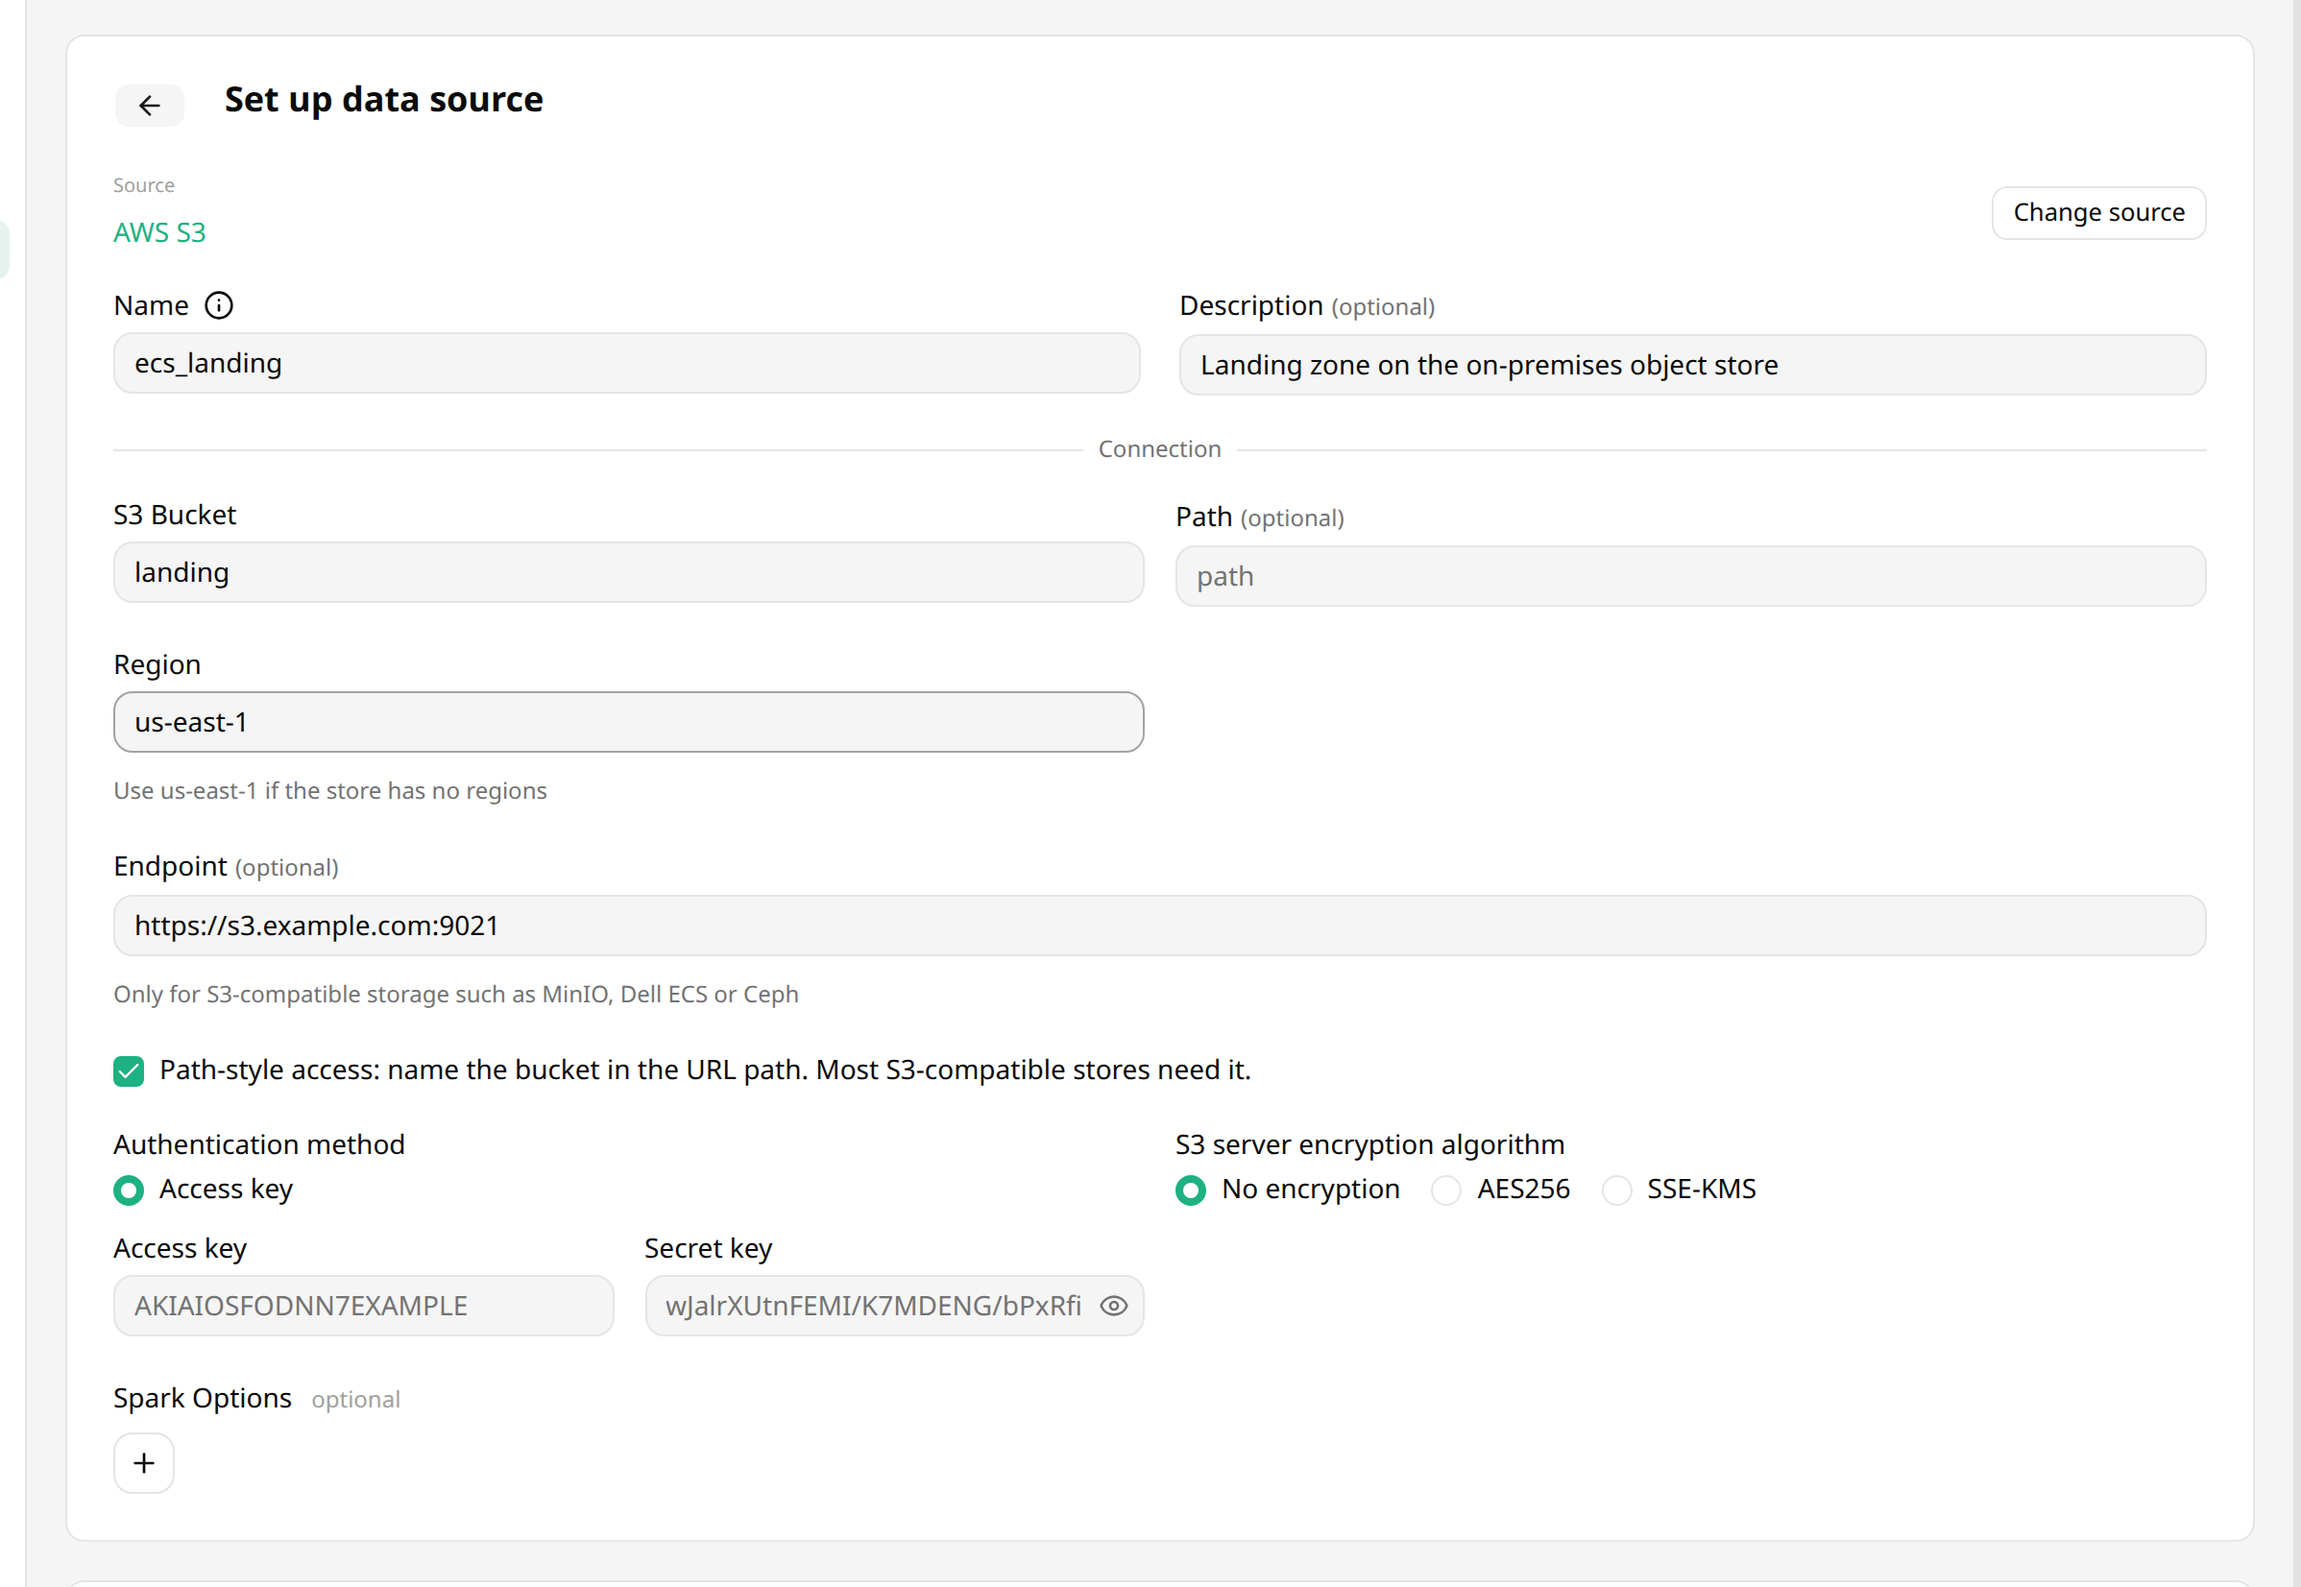
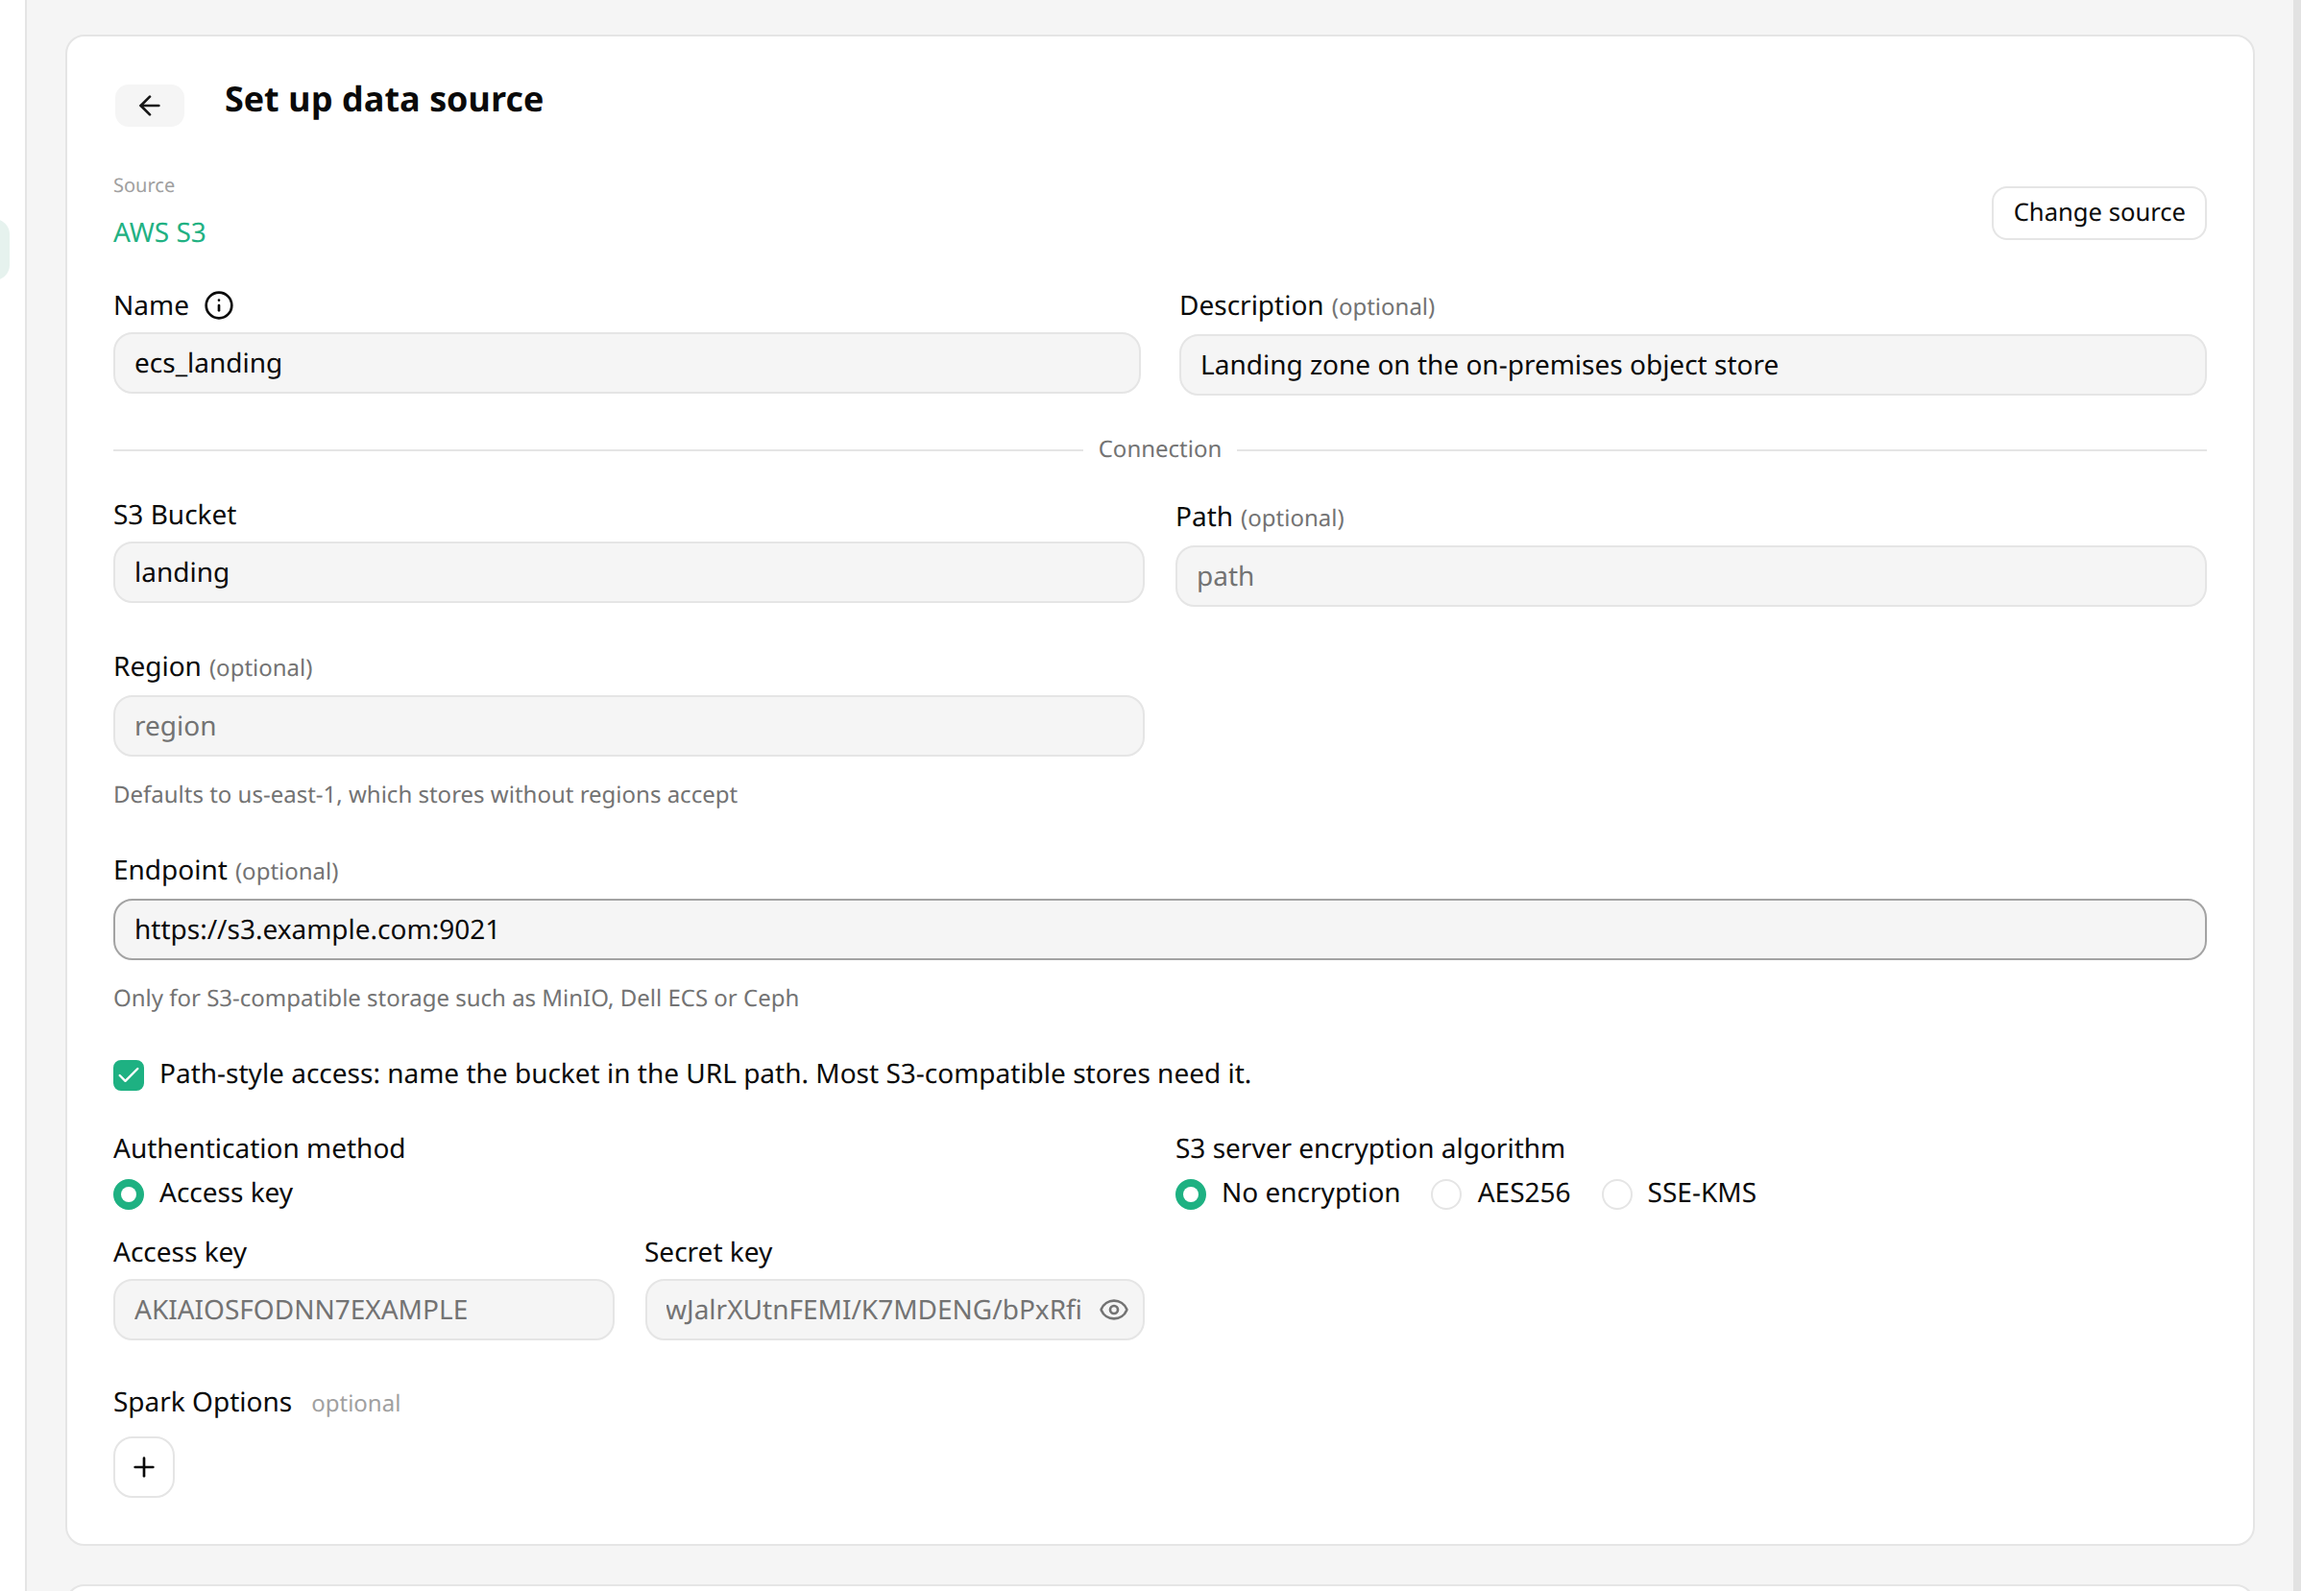
[FSTORE-2163] S3 data source: support S3-compatible storage (custom endpoint, path-style access, private CA, legacy checksums) https://hopsworks.atlassian.net/browse/FSTORE-2163
Make the region of an S3 data source with an endpoint optional. Without
one the backend stores us-east-1, which S3-compatible stores without
regions accept, instead of refusing the data source.

The S3-compatible section describes the region as optional with that
default, and says that a store configured with another region needs it
set. The AWS section's Region bullet is back to "Optional". The
S3-compatible capture is retaken with the region left empty, showing
the hint that names the default.

diff --git a/docs/user_guides/fs/data_source/creation/s3.md b/docs/user_guides/fs/data_source/creation/s3.md
@@ -23,7 +23,7 @@ Before you begin this guide you'll need to retrieve the following information fr
 - **Bucket:** You will need a S3 bucket that you have access to.
   The bucket is identified by its name.
 - **Path (Optional):** If needed, a path can be defined to ensure that all operations are restricted to a specific location within the bucket.
-- **Region (Optional on AWS):** You will need an S3 region to have complete control over data when managing the feature group that relies on this data source.
+- **Region (Optional):** You will need an S3 region to have complete control over data when managing the feature group that relies on this data source.
   The region is identified by its code.
   An S3-compatible store requires it.
 - **Endpoint (S3-compatible storage only):** The address of the store, as `http(s)://host[:port]`.
@@ -54,7 +54,7 @@ The `Source` line at the top of the form shows `AWS S3`, and `Change source` tak
 Start by giving it a **name** and an optional **description**.
 And set the name of the S3 Bucket you want to point the connector to.
 Optionally, specify the region if you wish to have a Hopsworks-managed feature group stored using this connector.
-For an S3-compatible store, fill in the **Endpoint** as well; the form then asks for the region and offers **Path-style access**, see [S3-compatible storage][data-source-s3-compatible].
+For an S3-compatible store, fill in the **Endpoint** as well; the form then offers **Path-style access**, see [S3-compatible storage][data-source-s3-compatible].
 
 <figure markdown>
   ![S3 Connector Creation](../../../../assets/images/guides/fs/data_source/s3_creation.png)
@@ -132,13 +132,14 @@ Set these fields:
   Hopsworks refuses `localhost` and loopback, link-local and unspecified addresses.
 - **Path-style access:** Turn it on when the store does not resolve a host name per bucket, which is the case for most on-premises stores.
   The bucket is then sent in the URL path, `https://s3.example.com:9021/landing/...`, instead of the host name, `https://landing.s3.example.com:9021/...`.
-- **Region:** Required.
-  Use the region the store is configured with, or `us-east-1` if it has none.
+- **Region:** The region the store is configured with.
+  Left empty, it is `us-east-1`, which stores without regions accept.
+  A store configured with another region refuses requests signed for `us-east-1`, so set its region here.
 - **Access Key/Secret:** Required.
   Instance roles and temporary credentials go through AWS, so the form does not offer them with an endpoint.
 
 <figure markdown>
-  ![S3 data source form with an endpoint, a required region, path-style access and access keys](../../../../assets/images/guides/fs/data_source/s3_compatible_creation.png)
+  ![S3 data source form with an endpoint, an optional region, path-style access and access keys](../../../../assets/images/guides/fs/data_source/s3_compatible_creation.png)
   <figcaption>S3 Connector on an S3-compatible store</figcaption>
 </figure>
 
